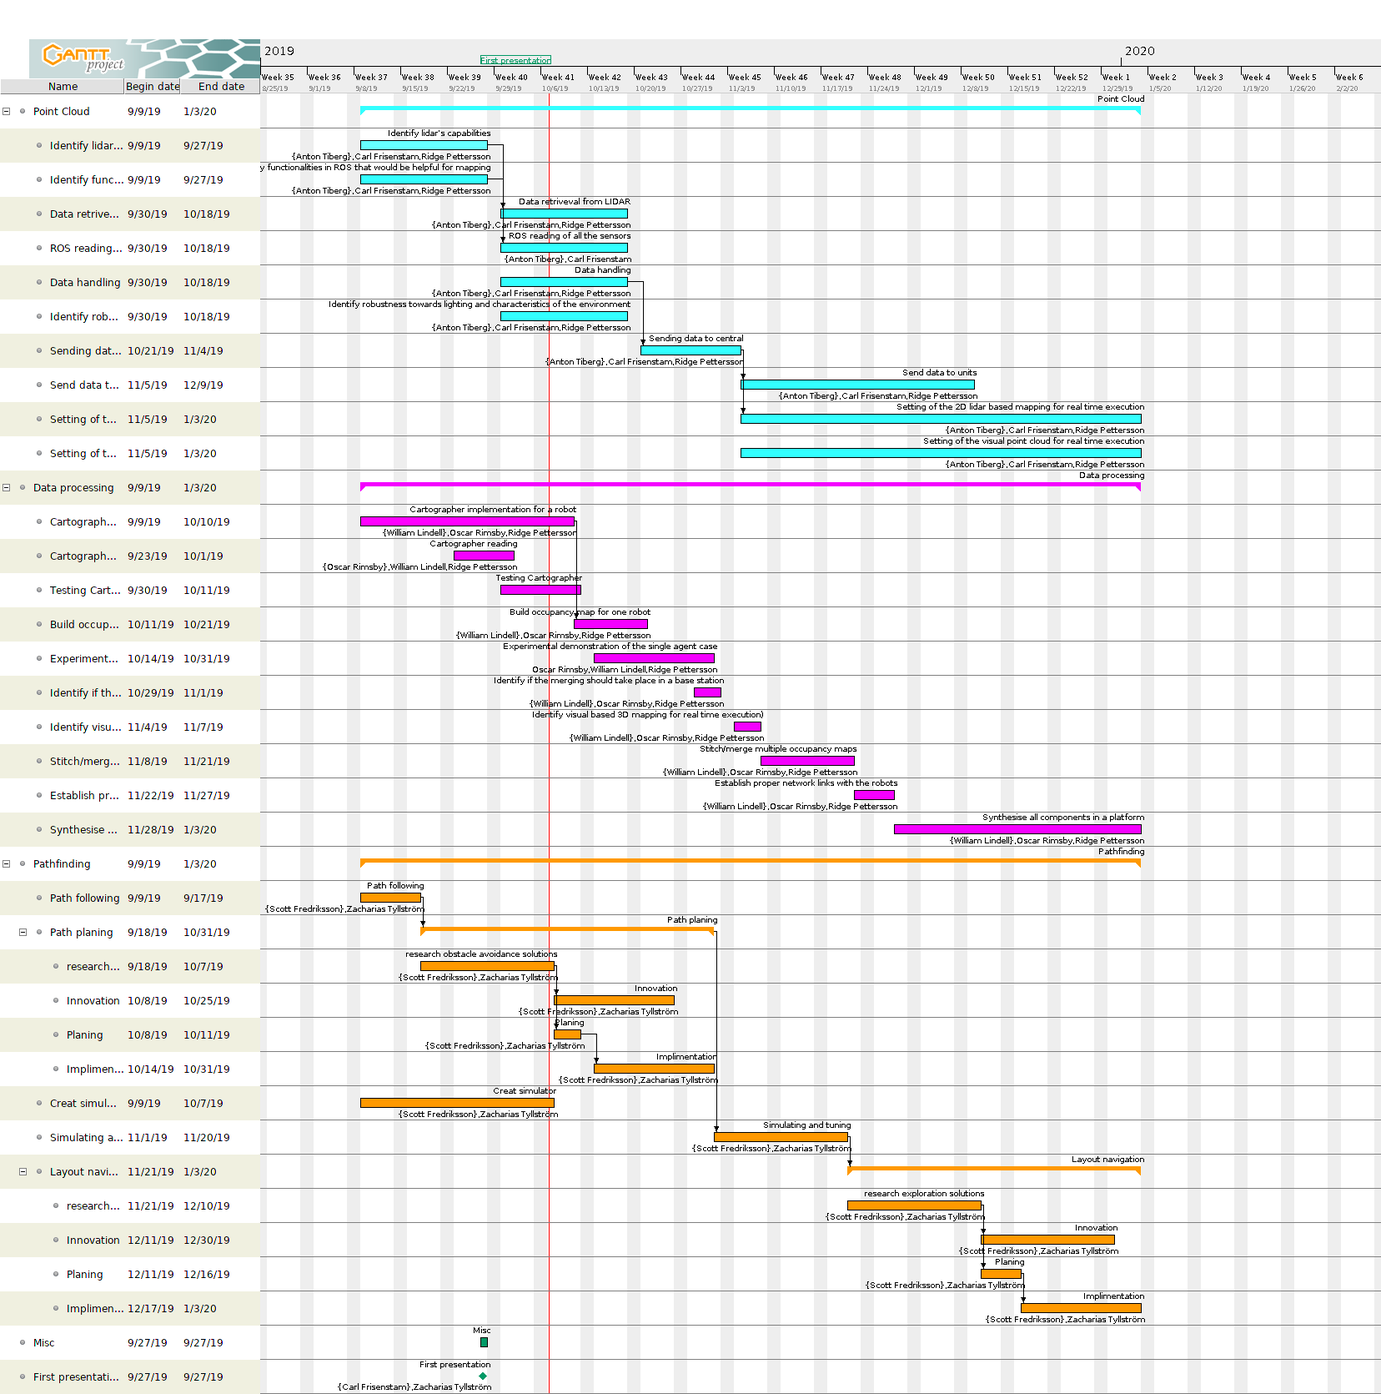
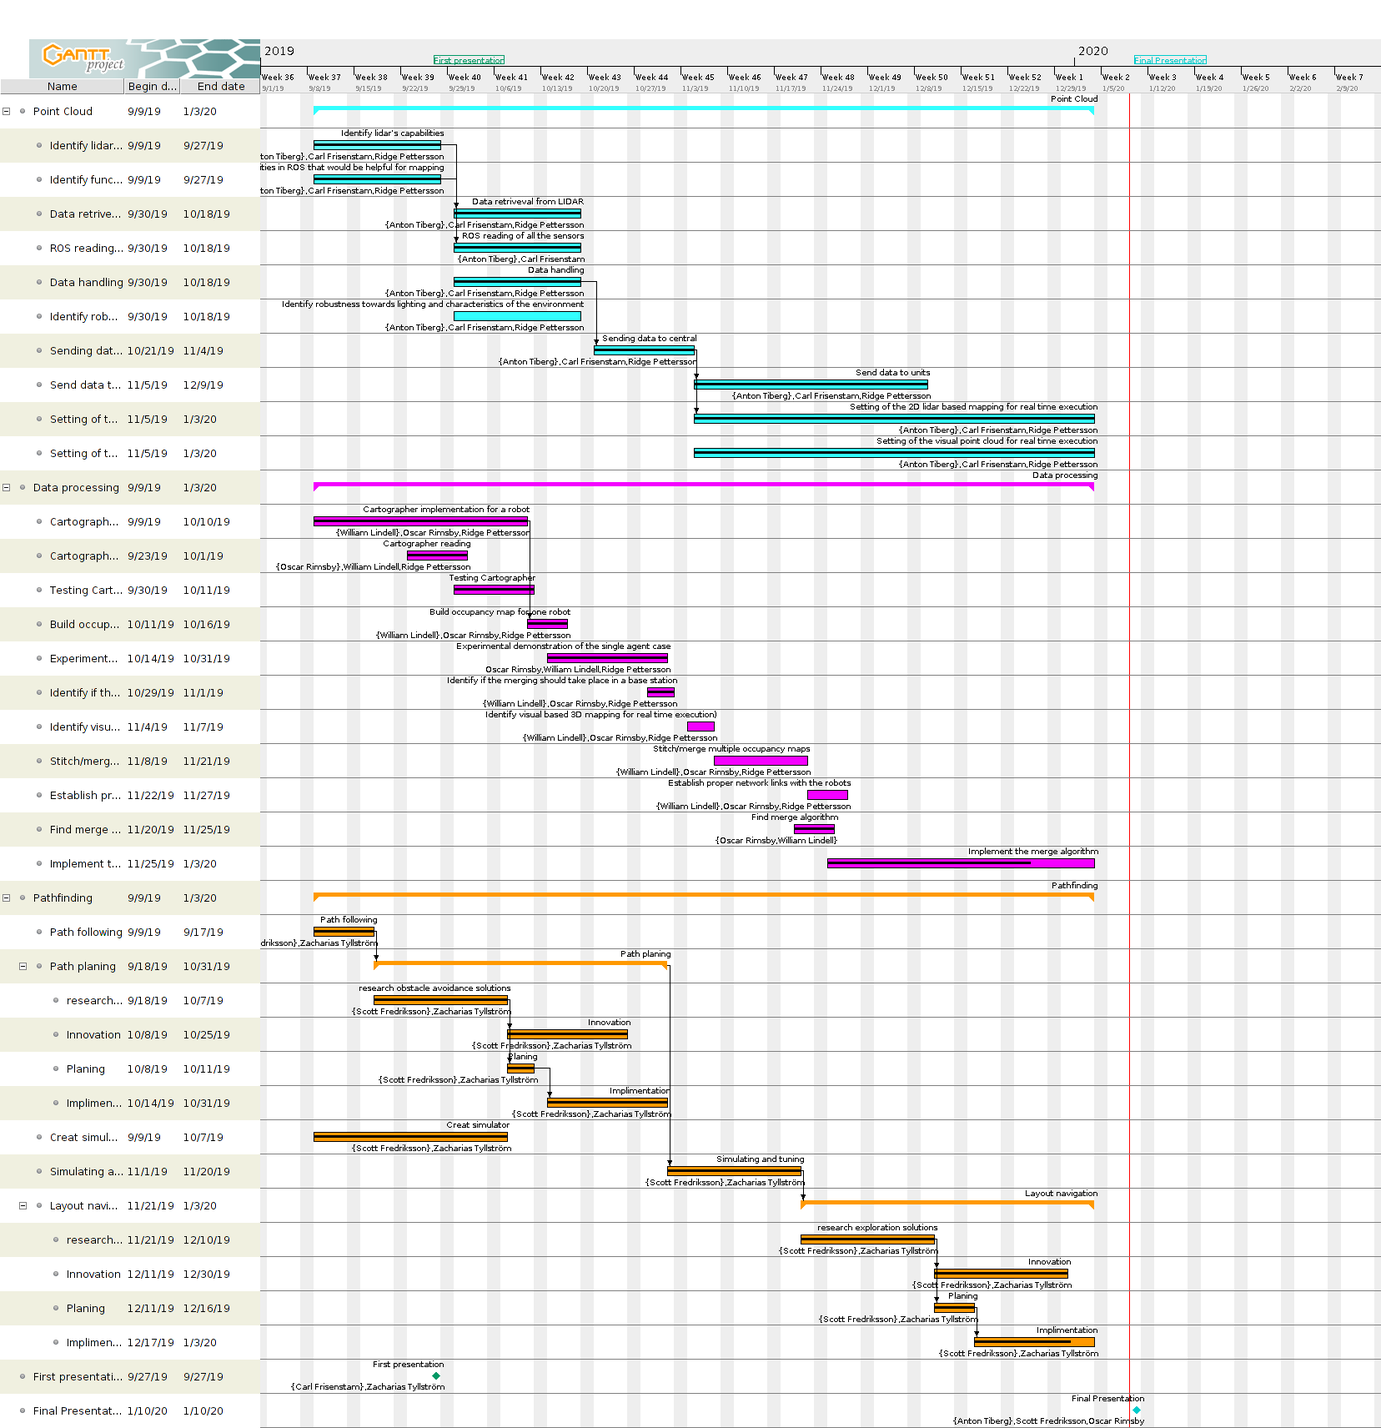
Added latest GANTT files

diff --git a/ProjectPlan-tasks.html b/ProjectPlan-tasks.html
@@ -110,32 +110,32 @@
 </td>
 </tr>
 <tr>
-<td valign="top" style="text-decoration: underline;"><b>Point Cloud</b></td><td valign="top">9/9/19</td><td valign="top">1/3/20</td><td valign="top" align="center">&nbsp;</td><td valign="top">0</td><td valign="top"></td><td valign="top">
+<td valign="top" style="text-decoration: underline;"><b>Point Cloud</b></td><td valign="top">9/9/19</td><td valign="top">1/3/20</td><td valign="top" align="center">&nbsp;</td><td valign="top">92</td><td valign="top"></td><td valign="top">
 <pre width="40"></pre>
 </td>
 </tr>
 <tr>
-<td valign="top" style="padding-left: 1em;"><b>Identify lidar&rsquo;s capabilities</b></td><td valign="top">9/9/19</td><td valign="top">9/27/19</td><td valign="top" align="center">&nbsp;</td><td valign="top">0</td><td valign="top">Anton Tiberg, Carl Frisenstam, Ridge Pettersson</td><td valign="top">
+<td valign="top" style="padding-left: 1em;"><b>Identify lidar&rsquo;s capabilities</b></td><td valign="top">9/9/19</td><td valign="top">9/27/19</td><td valign="top" align="center">&nbsp;</td><td valign="top">100</td><td valign="top">Anton Tiberg, Carl Frisenstam, Ridge Pettersson</td><td valign="top">
 <pre width="40"></pre>
 </td>
 </tr>
 <tr>
-<td valign="top" style="padding-left: 1em;"><b>Identify functionalities in ROS that would be helpful for mapping</b></td><td valign="top">9/9/19</td><td valign="top">9/27/19</td><td valign="top" align="center">&nbsp;</td><td valign="top">0</td><td valign="top">Anton Tiberg, Carl Frisenstam, Ridge Pettersson</td><td valign="top">
+<td valign="top" style="padding-left: 1em;"><b>Identify functionalities in ROS that would be helpful for mapping</b></td><td valign="top">9/9/19</td><td valign="top">9/27/19</td><td valign="top" align="center">&nbsp;</td><td valign="top">100</td><td valign="top">Anton Tiberg, Carl Frisenstam, Ridge Pettersson</td><td valign="top">
 <pre width="40"></pre>
 </td>
 </tr>
 <tr>
-<td valign="top" style="padding-left: 1em;"><b>Data retriveval from LIDAR</b></td><td valign="top">9/30/19</td><td valign="top">10/18/19</td><td valign="top" align="center">&nbsp;</td><td valign="top">0</td><td valign="top">Anton Tiberg, Carl Frisenstam, Ridge Pettersson</td><td valign="top">
+<td valign="top" style="padding-left: 1em;"><b>Data retriveval from LIDAR</b></td><td valign="top">9/30/19</td><td valign="top">10/18/19</td><td valign="top" align="center">&nbsp;</td><td valign="top">100</td><td valign="top">Anton Tiberg, Carl Frisenstam, Ridge Pettersson</td><td valign="top">
 <pre width="40"></pre>
 </td>
 </tr>
 <tr>
-<td valign="top" style="padding-left: 1em;"><b>ROS reading of all the sensors</b></td><td valign="top">9/30/19</td><td valign="top">10/18/19</td><td valign="top" align="center">&nbsp;</td><td valign="top">0</td><td valign="top">Anton Tiberg, Carl Frisenstam</td><td valign="top">
+<td valign="top" style="padding-left: 1em;"><b>ROS reading of all the sensors</b></td><td valign="top">9/30/19</td><td valign="top">10/18/19</td><td valign="top" align="center">&nbsp;</td><td valign="top">100</td><td valign="top">Anton Tiberg, Carl Frisenstam</td><td valign="top">
 <pre width="40"></pre>
 </td>
 </tr>
 <tr>
-<td valign="top" style="padding-left: 1em;"><b>Data handling</b></td><td valign="top">9/30/19</td><td valign="top">10/18/19</td><td valign="top" align="center">&nbsp;</td><td valign="top">0</td><td valign="top">Anton Tiberg, Carl Frisenstam, Ridge Pettersson</td><td valign="top">
+<td valign="top" style="padding-left: 1em;"><b>Data handling</b></td><td valign="top">9/30/19</td><td valign="top">10/18/19</td><td valign="top" align="center">&nbsp;</td><td valign="top">100</td><td valign="top">Anton Tiberg, Carl Frisenstam, Ridge Pettersson</td><td valign="top">
 <pre width="40"></pre>
 </td>
 </tr>
@@ -145,57 +145,57 @@
 </td>
 </tr>
 <tr>
-<td valign="top" style="padding-left: 1em;"><b>Sending data to central</b></td><td valign="top">10/21/19</td><td valign="top">11/4/19</td><td valign="top" align="center">&nbsp;</td><td valign="top">0</td><td valign="top">Anton Tiberg, Carl Frisenstam, Ridge Pettersson</td><td valign="top">
+<td valign="top" style="padding-left: 1em;"><b>Sending data to central</b></td><td valign="top">10/21/19</td><td valign="top">11/4/19</td><td valign="top" align="center">&nbsp;</td><td valign="top">100</td><td valign="top">Anton Tiberg, Carl Frisenstam, Ridge Pettersson</td><td valign="top">
 <pre width="40"></pre>
 </td>
 </tr>
 <tr>
-<td valign="top" style="padding-left: 1em;"><b>Send data to units</b></td><td valign="top">11/5/19</td><td valign="top">12/9/19</td><td valign="top" align="center">&nbsp;</td><td valign="top">0</td><td valign="top">Anton Tiberg, Carl Frisenstam, Ridge Pettersson</td><td valign="top">
+<td valign="top" style="padding-left: 1em;"><b>Send data to units</b></td><td valign="top">11/5/19</td><td valign="top">12/9/19</td><td valign="top" align="center">&nbsp;</td><td valign="top">100</td><td valign="top">Anton Tiberg, Carl Frisenstam, Ridge Pettersson</td><td valign="top">
 <pre width="40"></pre>
 </td>
 </tr>
 <tr>
-<td valign="top" style="padding-left: 1em;"><b>Setting of the 2D lidar based mapping for real time execution</b></td><td valign="top">11/5/19</td><td valign="top">1/3/20</td><td valign="top" align="center">&nbsp;</td><td valign="top">0</td><td valign="top">Anton Tiberg, Carl Frisenstam, Ridge Pettersson</td><td valign="top">
+<td valign="top" style="padding-left: 1em;"><b>Setting of the 2D lidar based mapping for real time execution</b></td><td valign="top">11/5/19</td><td valign="top">1/3/20</td><td valign="top" align="center">&nbsp;</td><td valign="top">100</td><td valign="top">Anton Tiberg, Carl Frisenstam, Ridge Pettersson</td><td valign="top">
 <pre width="40"></pre>
 </td>
 </tr>
 <tr>
-<td valign="top" style="padding-left: 1em;"><b>Setting of the visual point cloud for real time execution</b></td><td valign="top">11/5/19</td><td valign="top">1/3/20</td><td valign="top" align="center">&nbsp;</td><td valign="top">0</td><td valign="top">Anton Tiberg, Carl Frisenstam, Ridge Pettersson</td><td valign="top">
+<td valign="top" style="padding-left: 1em;"><b>Setting of the visual point cloud for real time execution</b></td><td valign="top">11/5/19</td><td valign="top">1/3/20</td><td valign="top" align="center">&nbsp;</td><td valign="top">100</td><td valign="top">Anton Tiberg, Carl Frisenstam, Ridge Pettersson</td><td valign="top">
 <pre width="40"></pre>
 </td>
 </tr>
 <tr>
-<td valign="top" style="text-decoration: underline;"><b>Data processing</b></td><td valign="top">9/9/19</td><td valign="top">1/3/20</td><td valign="top" align="center">&nbsp;</td><td valign="top">0</td><td valign="top"></td><td valign="top">
+<td valign="top" style="text-decoration: underline;"><b>Data processing</b></td><td valign="top">9/9/19</td><td valign="top">1/3/20</td><td valign="top" align="center">&nbsp;</td><td valign="top">77</td><td valign="top"></td><td valign="top">
 <pre width="40"></pre>
 </td>
 </tr>
 <tr>
-<td valign="top" style="padding-left: 1em;"><b>Cartographer implementation for a robot</b></td><td valign="top">9/9/19</td><td valign="top">10/10/19</td><td valign="top" align="center">&nbsp;</td><td valign="top">0</td><td valign="top">Oscar Rimsby, William Lindell, Ridge Pettersson</td><td valign="top">
+<td valign="top" style="padding-left: 1em;"><b>Cartographer implementation for a robot</b></td><td valign="top">9/9/19</td><td valign="top">10/10/19</td><td valign="top" align="center">&nbsp;</td><td valign="top">100</td><td valign="top">Oscar Rimsby, William Lindell, Ridge Pettersson</td><td valign="top">
 <pre width="40"></pre>
 </td>
 </tr>
 <tr>
-<td valign="top" style="padding-left: 1em;"><b>Cartographer reading</b></td><td valign="top">9/23/19</td><td valign="top">10/1/19</td><td valign="top" align="center">&nbsp;</td><td valign="top">0</td><td valign="top">Oscar Rimsby, William Lindell, Ridge Pettersson</td><td valign="top">
+<td valign="top" style="padding-left: 1em;"><b>Cartographer reading</b></td><td valign="top">9/23/19</td><td valign="top">10/1/19</td><td valign="top" align="center">&nbsp;</td><td valign="top">100</td><td valign="top">Oscar Rimsby, William Lindell, Ridge Pettersson</td><td valign="top">
 <pre width="40"></pre>
 </td>
 </tr>
 <tr>
-<td valign="top" style="padding-left: 1em;"><b>Testing Cartographer</b></td><td valign="top">9/30/19</td><td valign="top">10/11/19</td><td valign="top" align="center">&nbsp;</td><td valign="top">0</td><td valign="top"></td><td valign="top">
+<td valign="top" style="padding-left: 1em;"><b>Testing Cartographer</b></td><td valign="top">9/30/19</td><td valign="top">10/11/19</td><td valign="top" align="center">&nbsp;</td><td valign="top">100</td><td valign="top"></td><td valign="top">
 <pre width="40"></pre>
 </td>
 </tr>
 <tr>
-<td valign="top" style="padding-left: 1em;"><b>Build occupancy map for one robot</b></td><td valign="top">10/11/19</td><td valign="top">10/21/19</td><td valign="top" align="center">&nbsp;</td><td valign="top">0</td><td valign="top">Oscar Rimsby, William Lindell, Ridge Pettersson</td><td valign="top">
+<td valign="top" style="padding-left: 1em;"><b>Build occupancy map for one robot</b></td><td valign="top">10/11/19</td><td valign="top">10/16/19</td><td valign="top" align="center">&nbsp;</td><td valign="top">100</td><td valign="top">Oscar Rimsby, William Lindell, Ridge Pettersson</td><td valign="top">
 <pre width="40"></pre>
 </td>
 </tr>
 <tr>
-<td valign="top" style="padding-left: 1em;"><b>Experimental demonstration of the single agent case</b></td><td valign="top">10/14/19</td><td valign="top">10/31/19</td><td valign="top" align="center">&nbsp;</td><td valign="top">0</td><td valign="top">Oscar Rimsby, William Lindell, Ridge Pettersson</td><td valign="top">
+<td valign="top" style="padding-left: 1em;"><b>Experimental demonstration of the single agent case</b></td><td valign="top">10/14/19</td><td valign="top">10/31/19</td><td valign="top" align="center">&nbsp;</td><td valign="top">100</td><td valign="top">Oscar Rimsby, William Lindell, Ridge Pettersson</td><td valign="top">
 <pre width="40"></pre>
 </td>
 </tr>
 <tr>
-<td valign="top" style="padding-left: 1em;"><b>Identify if the merging should take place in a base station</b></td><td valign="top">10/29/19</td><td valign="top">11/1/19</td><td valign="top" align="center">&nbsp;</td><td valign="top">0</td><td valign="top">Oscar Rimsby, William Lindell, Ridge Pettersson</td><td valign="top">
+<td valign="top" style="padding-left: 1em;"><b>Identify if the merging should take place in a base station</b></td><td valign="top">10/29/19</td><td valign="top">11/1/19</td><td valign="top" align="center">&nbsp;</td><td valign="top">100</td><td valign="top">Oscar Rimsby, William Lindell, Ridge Pettersson</td><td valign="top">
 <pre width="40"></pre>
 </td>
 </tr>
@@ -215,89 +215,94 @@
 </td>
 </tr>
 <tr>
-<td valign="top" style="padding-left: 1em;"><b>Synthesise all components in a platform</b></td><td valign="top">11/28/19</td><td valign="top">1/3/20</td><td valign="top" align="center">&nbsp;</td><td valign="top">0</td><td valign="top">Oscar Rimsby, William Lindell, Ridge Pettersson</td><td valign="top">
+<td valign="top" style="padding-left: 1em;"><b>Find merge algorithm</b></td><td valign="top">11/20/19</td><td valign="top">11/25/19</td><td valign="top" align="center">&nbsp;</td><td valign="top">100</td><td valign="top">Oscar Rimsby, William Lindell</td><td valign="top">
 <pre width="40"></pre>
 </td>
 </tr>
 <tr>
-<td valign="top" style="text-decoration: underline;"><b>Pathfinding</b></td><td valign="top">9/9/19</td><td valign="top">1/3/20</td><td valign="top" align="center">&nbsp;</td><td valign="top">0</td><td valign="top"></td><td valign="top">
+<td valign="top" style="padding-left: 1em;"><b>Implement the merge algorithm</b></td><td valign="top">11/25/19</td><td valign="top">1/3/20</td><td valign="top" align="center">&nbsp;</td><td valign="top">75</td><td valign="top"></td><td valign="top">
 <pre width="40"></pre>
 </td>
 </tr>
 <tr>
-<td valign="top" style="padding-left: 1em;"><b>Path following</b></td><td valign="top">9/9/19</td><td valign="top">9/17/19</td><td valign="top" align="center">&nbsp;</td><td valign="top">0</td><td valign="top">Scott Fredriksson, Zacharias Tyllstr&ouml;m</td><td valign="top">
+<td valign="top" style="text-decoration: underline;"><b>Pathfinding</b></td><td valign="top">9/9/19</td><td valign="top">1/3/20</td><td valign="top" align="center">&nbsp;</td><td valign="top">97</td><td valign="top"></td><td valign="top">
+<pre width="40"></pre>
+</td>
+</tr>
+<tr>
+<td valign="top" style="padding-left: 1em;"><b>Path following</b></td><td valign="top">9/9/19</td><td valign="top">9/17/19</td><td valign="top" align="center">&nbsp;</td><td valign="top">100</td><td valign="top">Scott Fredriksson, Zacharias Tyllstr&ouml;m</td><td valign="top">
 <pre width="40">
 
 </pre>
 </td>
 </tr>
 <tr>
-<td valign="top" style="padding-left: 1em;"><b>Path planing</b></td><td valign="top">9/18/19</td><td valign="top">10/31/19</td><td valign="top" align="center">&nbsp;</td><td valign="top">0</td><td valign="top"></td><td valign="top">
+<td valign="top" style="padding-left: 1em;"><b>Path planing</b></td><td valign="top">9/18/19</td><td valign="top">10/31/19</td><td valign="top" align="center">&nbsp;</td><td valign="top">100</td><td valign="top"></td><td valign="top">
 <pre width="40"></pre>
 </td>
 </tr>
 <tr>
-<td valign="top" style="padding-left: 2em;"><b>research obstacle avoidance solutions</b></td><td valign="top">9/18/19</td><td valign="top">10/7/19</td><td valign="top" align="center">&nbsp;</td><td valign="top">0</td><td valign="top">Scott Fredriksson, Zacharias Tyllstr&ouml;m</td><td valign="top">
+<td valign="top" style="padding-left: 2em;"><b>research obstacle avoidance solutions</b></td><td valign="top">9/18/19</td><td valign="top">10/7/19</td><td valign="top" align="center">&nbsp;</td><td valign="top">100</td><td valign="top">Scott Fredriksson, Zacharias Tyllstr&ouml;m</td><td valign="top">
 <pre width="40"></pre>
 </td>
 </tr>
 <tr>
-<td valign="top" style="padding-left: 2em;"><b>Innovation</b></td><td valign="top">10/8/19</td><td valign="top">10/25/19</td><td valign="top" align="center">&nbsp;</td><td valign="top">0</td><td valign="top">Scott Fredriksson, Zacharias Tyllstr&ouml;m</td><td valign="top">
+<td valign="top" style="padding-left: 2em;"><b>Innovation</b></td><td valign="top">10/8/19</td><td valign="top">10/25/19</td><td valign="top" align="center">&nbsp;</td><td valign="top">100</td><td valign="top">Scott Fredriksson, Zacharias Tyllstr&ouml;m</td><td valign="top">
 <pre width="40"></pre>
 </td>
 </tr>
 <tr>
-<td valign="top" style="padding-left: 2em;"><b>Planing</b></td><td valign="top">10/8/19</td><td valign="top">10/11/19</td><td valign="top" align="center">&nbsp;</td><td valign="top">0</td><td valign="top">Scott Fredriksson, Zacharias Tyllstr&ouml;m</td><td valign="top">
+<td valign="top" style="padding-left: 2em;"><b>Planing</b></td><td valign="top">10/8/19</td><td valign="top">10/11/19</td><td valign="top" align="center">&nbsp;</td><td valign="top">100</td><td valign="top">Scott Fredriksson, Zacharias Tyllstr&ouml;m</td><td valign="top">
 <pre width="40"></pre>
 </td>
 </tr>
 <tr>
-<td valign="top" style="padding-left: 2em;"><b>Implimentation</b></td><td valign="top">10/14/19</td><td valign="top">10/31/19</td><td valign="top" align="center">&nbsp;</td><td valign="top">0</td><td valign="top">Scott Fredriksson, Zacharias Tyllstr&ouml;m</td><td valign="top">
+<td valign="top" style="padding-left: 2em;"><b>Implimentation</b></td><td valign="top">10/14/19</td><td valign="top">10/31/19</td><td valign="top" align="center">&nbsp;</td><td valign="top">100</td><td valign="top">Scott Fredriksson, Zacharias Tyllstr&ouml;m</td><td valign="top">
 <pre width="40"></pre>
 </td>
 </tr>
 <tr>
-<td valign="top" style="padding-left: 1em;"><b>Creat simulator</b></td><td valign="top">9/9/19</td><td valign="top">10/7/19</td><td valign="top" align="center">&nbsp;</td><td valign="top">0</td><td valign="top">Scott Fredriksson, Zacharias Tyllstr&ouml;m</td><td valign="top">
+<td valign="top" style="padding-left: 1em;"><b>Creat simulator</b></td><td valign="top">9/9/19</td><td valign="top">10/7/19</td><td valign="top" align="center">&nbsp;</td><td valign="top">100</td><td valign="top">Scott Fredriksson, Zacharias Tyllstr&ouml;m</td><td valign="top">
 <pre width="40"></pre>
 </td>
 </tr>
 <tr>
-<td valign="top" style="padding-left: 1em;"><b>Simulating and tuning</b></td><td valign="top">11/1/19</td><td valign="top">11/20/19</td><td valign="top" align="center">&nbsp;</td><td valign="top">0</td><td valign="top">Scott Fredriksson, Zacharias Tyllstr&ouml;m</td><td valign="top">
+<td valign="top" style="padding-left: 1em;"><b>Simulating and tuning</b></td><td valign="top">11/1/19</td><td valign="top">11/20/19</td><td valign="top" align="center">&nbsp;</td><td valign="top">100</td><td valign="top">Scott Fredriksson, Zacharias Tyllstr&ouml;m</td><td valign="top">
 <pre width="40"></pre>
 </td>
 </tr>
 <tr>
-<td valign="top" style="padding-left: 1em;"><b>Layout navigation</b></td><td valign="top">11/21/19</td><td valign="top">1/3/20</td><td valign="top" align="center">&nbsp;</td><td valign="top">0</td><td valign="top"></td><td valign="top">
+<td valign="top" style="padding-left: 1em;"><b>Layout navigation</b></td><td valign="top">11/21/19</td><td valign="top">1/3/20</td><td valign="top" align="center">&nbsp;</td><td valign="top">92</td><td valign="top"></td><td valign="top">
 <pre width="40"></pre>
 </td>
 </tr>
 <tr>
-<td valign="top" style="padding-left: 2em;"><b>research exploration solutions</b></td><td valign="top">11/21/19</td><td valign="top">12/10/19</td><td valign="top" align="center">&nbsp;</td><td valign="top">0</td><td valign="top">Scott Fredriksson, Zacharias Tyllstr&ouml;m</td><td valign="top">
+<td valign="top" style="padding-left: 2em;"><b>research exploration solutions</b></td><td valign="top">11/21/19</td><td valign="top">12/10/19</td><td valign="top" align="center">&nbsp;</td><td valign="top">100</td><td valign="top">Scott Fredriksson, Zacharias Tyllstr&ouml;m</td><td valign="top">
 <pre width="40"></pre>
 </td>
 </tr>
 <tr>
-<td valign="top" style="padding-left: 2em;"><b>Innovation</b></td><td valign="top">12/11/19</td><td valign="top">12/30/19</td><td valign="top" align="center">&nbsp;</td><td valign="top">0</td><td valign="top">Scott Fredriksson, Zacharias Tyllstr&ouml;m</td><td valign="top">
+<td valign="top" style="padding-left: 2em;"><b>Innovation</b></td><td valign="top">12/11/19</td><td valign="top">12/30/19</td><td valign="top" align="center">&nbsp;</td><td valign="top">100</td><td valign="top">Scott Fredriksson, Zacharias Tyllstr&ouml;m</td><td valign="top">
 <pre width="40"></pre>
 </td>
 </tr>
 <tr>
-<td valign="top" style="padding-left: 2em;"><b>Planing</b></td><td valign="top">12/11/19</td><td valign="top">12/16/19</td><td valign="top" align="center">&nbsp;</td><td valign="top">0</td><td valign="top">Scott Fredriksson, Zacharias Tyllstr&ouml;m</td><td valign="top">
+<td valign="top" style="padding-left: 2em;"><b>Planing</b></td><td valign="top">12/11/19</td><td valign="top">12/16/19</td><td valign="top" align="center">&nbsp;</td><td valign="top">100</td><td valign="top">Scott Fredriksson, Zacharias Tyllstr&ouml;m</td><td valign="top">
 <pre width="40"></pre>
 </td>
 </tr>
 <tr>
-<td valign="top" style="padding-left: 2em;"><b>Implimentation</b></td><td valign="top">12/17/19</td><td valign="top">1/3/20</td><td valign="top" align="center">&nbsp;</td><td valign="top">0</td><td valign="top">Scott Fredriksson, Zacharias Tyllstr&ouml;m</td><td valign="top">
-<pre width="40"></pre>
-</td>
-</tr>
-<tr>
-<td valign="top" style="text-decoration: underline;"><b>Misc</b></td><td valign="top">9/27/19</td><td valign="top">9/27/19</td><td valign="top" align="center">&nbsp;</td><td valign="top">0</td><td valign="top"></td><td valign="top">
+<td valign="top" style="padding-left: 2em;"><b>Implimentation</b></td><td valign="top">12/17/19</td><td valign="top">1/3/20</td><td valign="top" align="center">&nbsp;</td><td valign="top">75</td><td valign="top">Scott Fredriksson, Zacharias Tyllstr&ouml;m</td><td valign="top">
 <pre width="40"></pre>
 </td>
 </tr>
 <tr>
 <td valign="top" style="text-decoration: underline;"><b>First presentation</b></td><td valign="top">9/27/19</td><td valign="top">9/27/19</td><td valign="top" align="center">*</td><td valign="top">0</td><td valign="top">Carl Frisenstam, Zacharias Tyllstr&ouml;m</td><td valign="top">
+<pre width="40"></pre>
+</td>
+</tr>
+<tr>
+<td valign="top" style="text-decoration: underline;"><b>Final Presentation</b></td><td valign="top">1/10/20</td><td valign="top">1/10/20</td><td valign="top" align="center">*</td><td valign="top">0</td><td valign="top">Anton Tiberg, Scott Fredriksson, Oscar Rimsby</td><td valign="top">
 <pre width="40"></pre>
 </td>
 </tr>
@@ -308,7 +313,7 @@
 <tr>
 <td bgcolor="#6d9ec6" width="50%"><font color="#FFFFFF"><b>Ganttproject (2.8.10 Pilsen (build 2364))</b></font></td><td bgcolor="#6d9ec6" width="50%" align="right"><b><a href="http://ganttproject.biz">ganttproject.biz</a></b>
 <br>
-<b>10/7/19 - 8:27:34 AM</b></td>
+<b>1/9/20 - 3:11:04 PM</b></td>
 </tr>
 </table>
 </body>

diff --git a/ProjectPlan-chart.html b/ProjectPlan-chart.html
@@ -101,7 +101,7 @@
 <tr>
 <td bgcolor="#6d9ec6" width="50%"><font color="#FFFFFF"><b>Ganttproject (2.8.10 Pilsen (build 2364))</b></font></td><td bgcolor="#6d9ec6" width="50%" align="right"><b><a href="http://ganttproject.biz">ganttproject.biz</a></b>
 <br>
-<b>10/7/19 - 8:27:34 AM</b></td>
+<b>1/9/20 - 3:11:04 PM</b></td>
 </tr>
 </table>
 </body>

diff --git a/ProjectPlan-resources.html b/ProjectPlan-resources.html
@@ -134,7 +134,7 @@
 <tr>
 <td bgcolor="#6d9ec6" width="50%"><font color="#FFFFFF"><b>Ganttproject (2.8.10 Pilsen (build 2364))</b></font></td><td bgcolor="#6d9ec6" width="50%" align="right"><b><a href="http://ganttproject.biz">ganttproject.biz</a></b>
 <br>
-<b>10/7/19 - 8:27:34 AM</b></td>
+<b>1/9/20 - 3:11:04 PM</b></td>
 </tr>
 </table>
 </body>

diff --git a/ProjectPlan.html b/ProjectPlan.html
@@ -129,7 +129,7 @@
 <tr>
 <td bgcolor="#6d9ec6" width="50%"><font color="#FFFFFF"><b>Ganttproject (2.8.10 Pilsen (build 2364))</b></font></td><td bgcolor="#6d9ec6" width="50%" align="right"><b><a href="http://ganttproject.biz">ganttproject.biz</a></b>
 <br>
-<b>10/7/19 - 8:27:34 AM</b></td>
+<b>1/9/20 - 3:11:04 PM</b></td>
 </tr>
 </table>
 </body>
